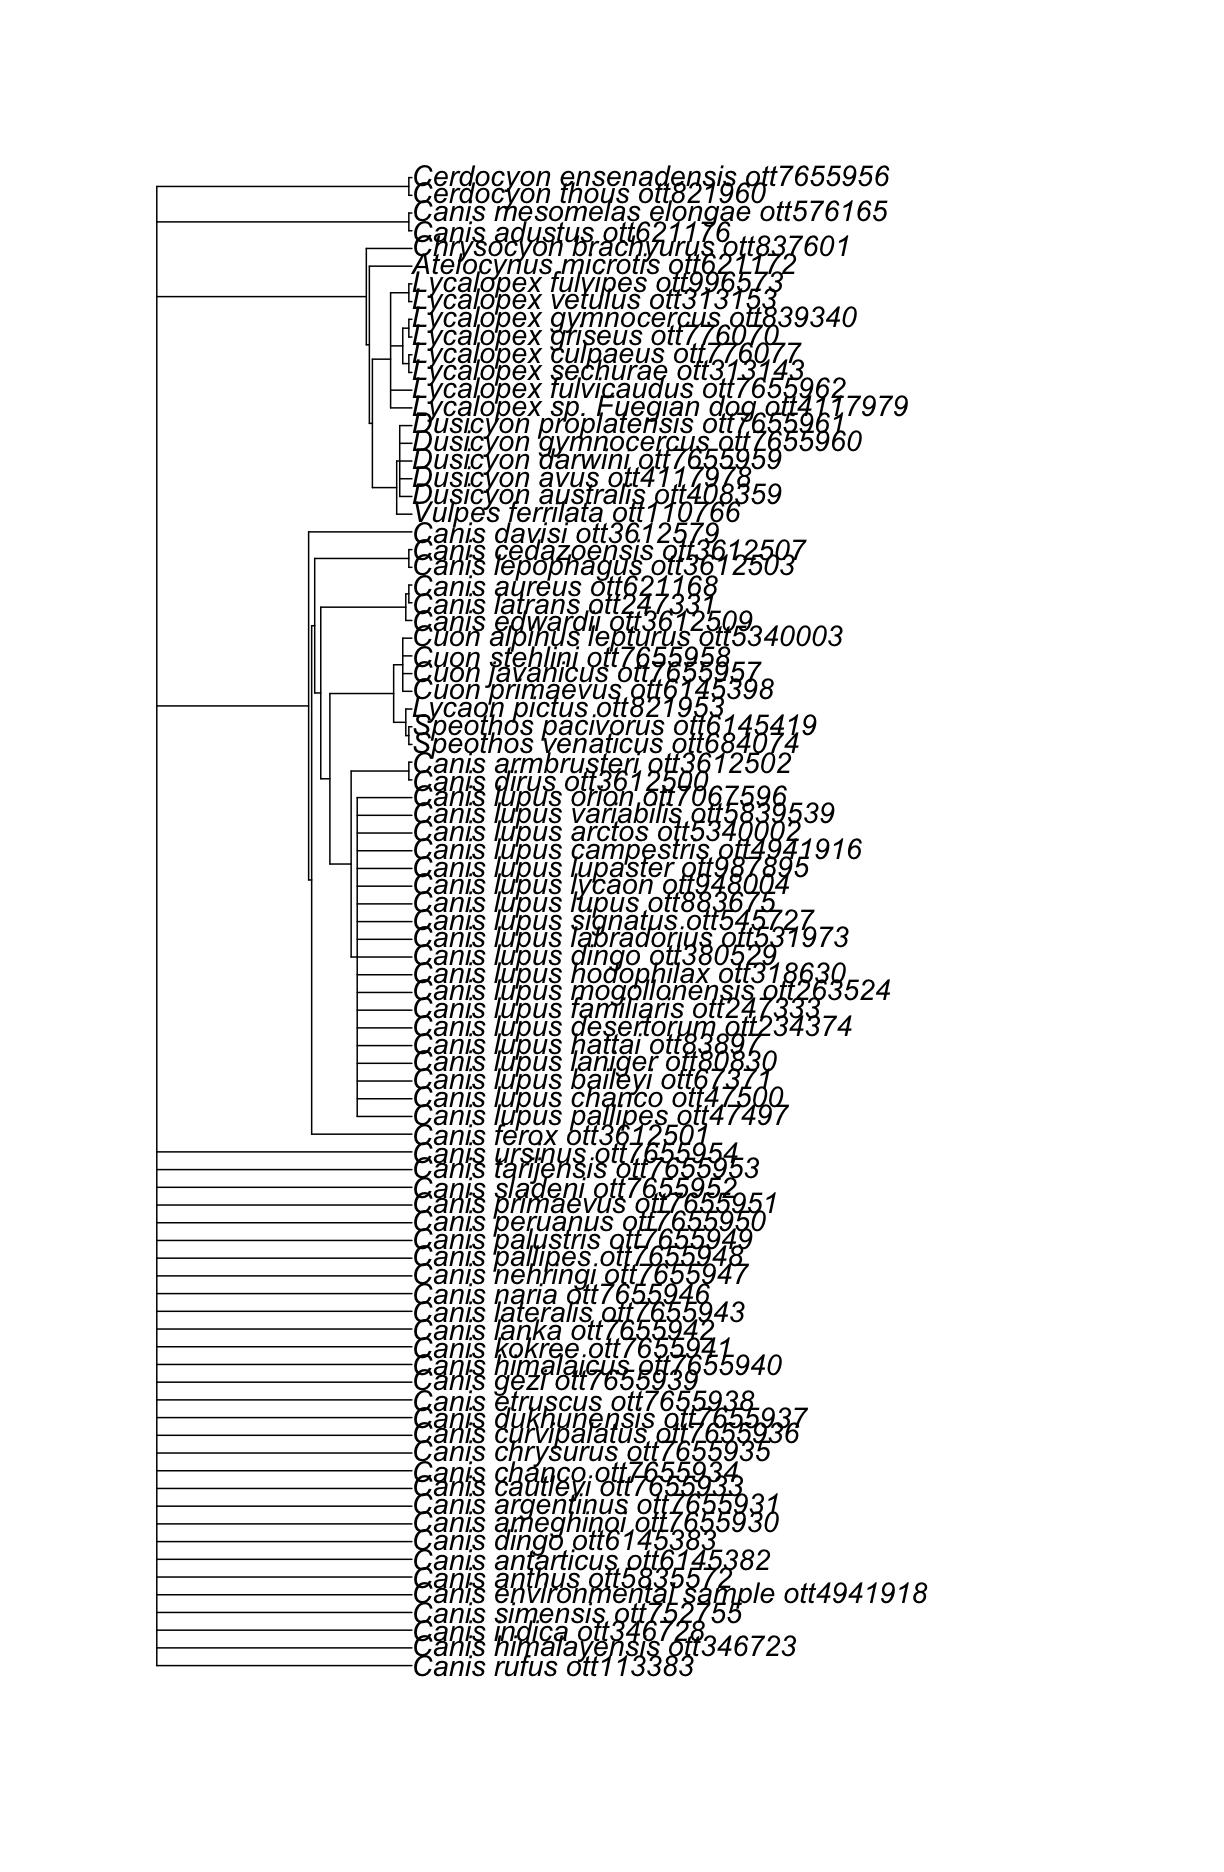
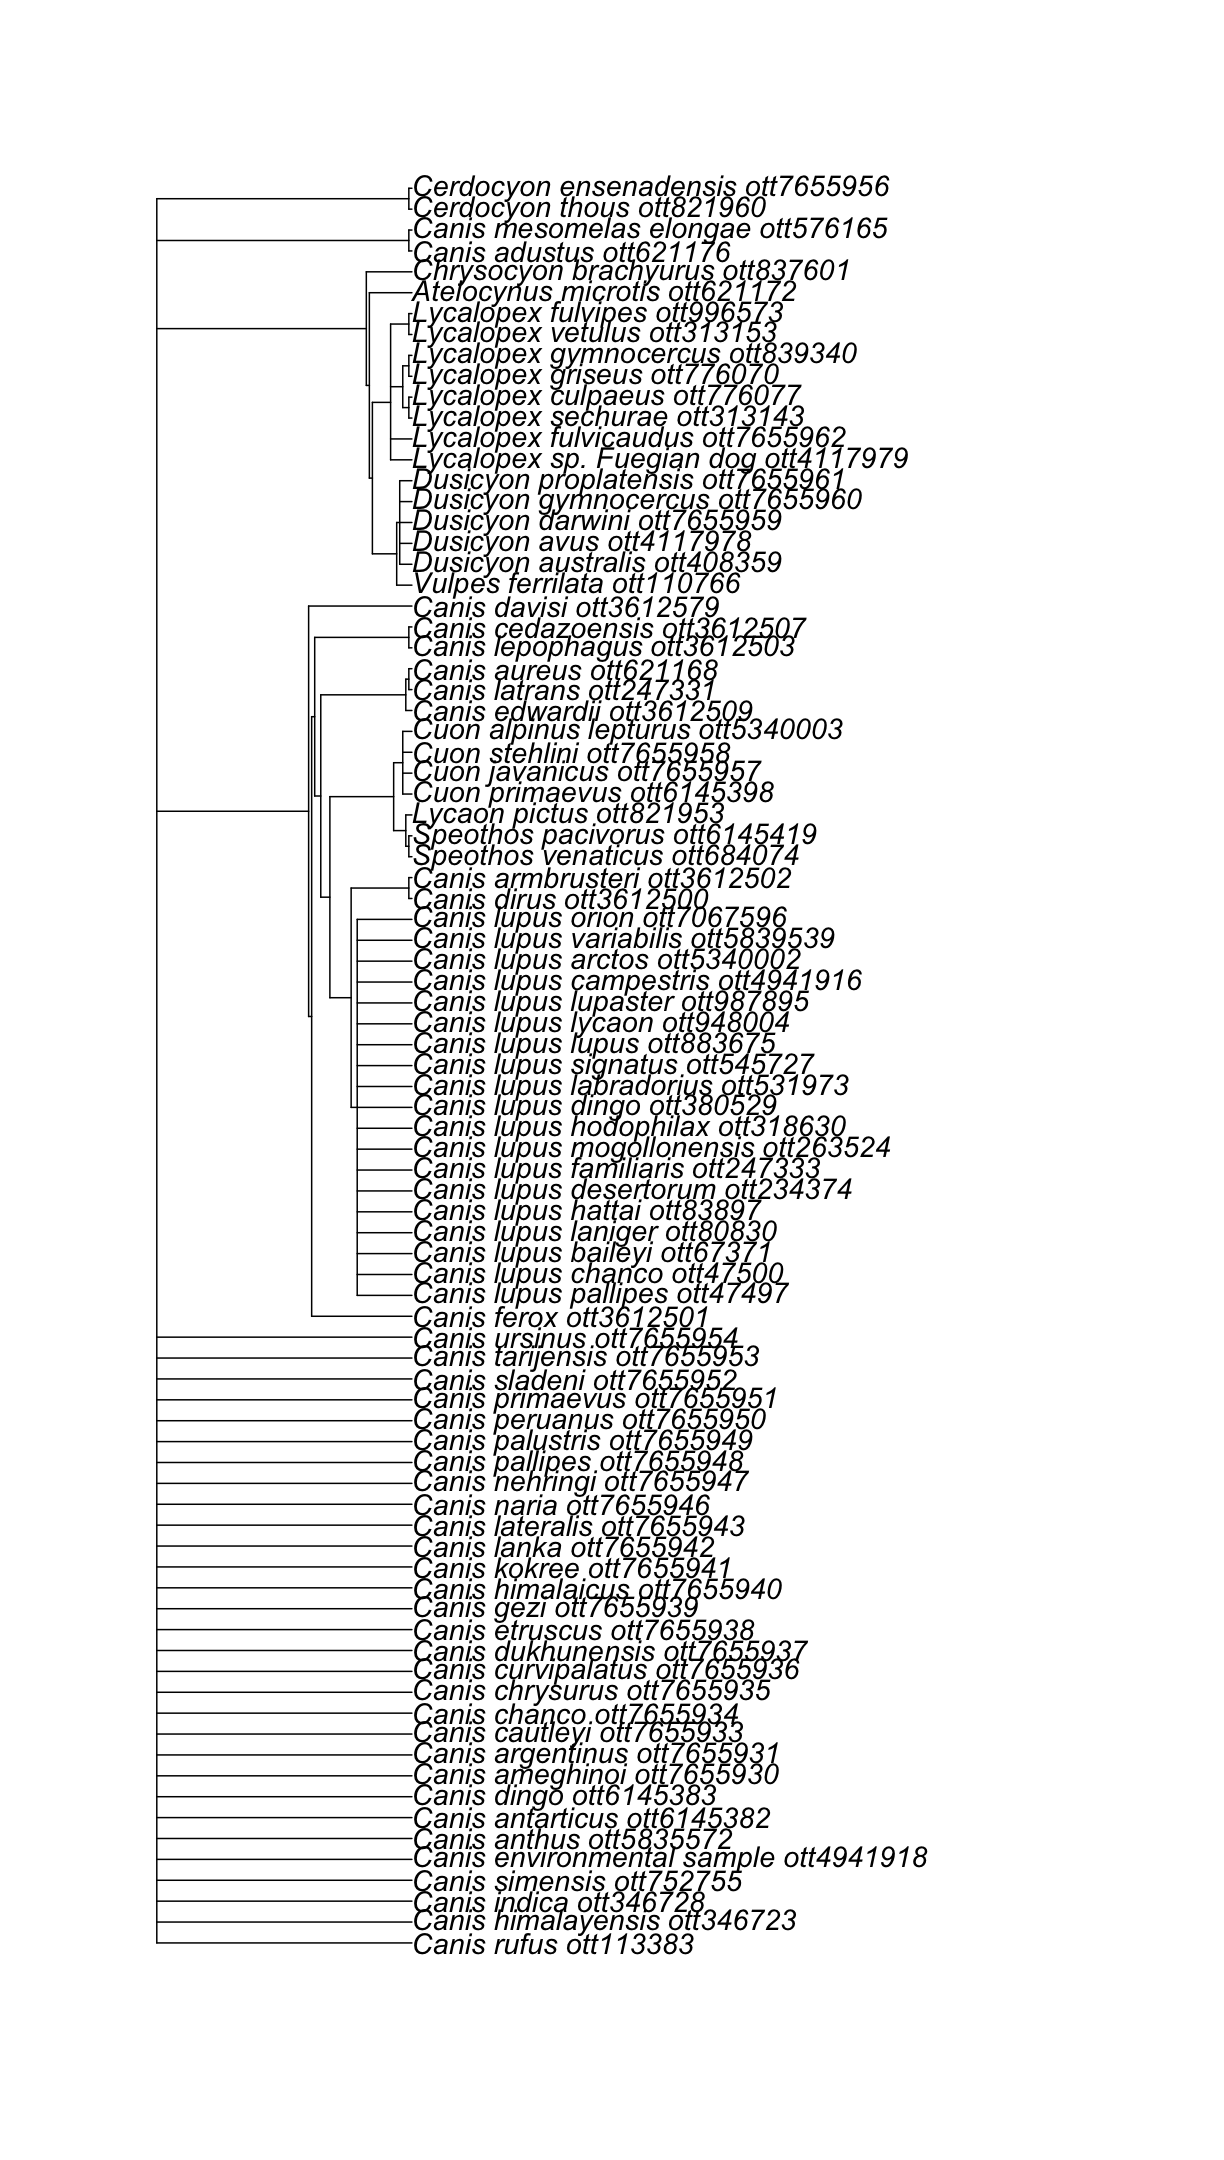
updating episodes 2 and 3

Changed region(s): [[0.1242, 0.062, 0.7761, 0.9295]]

diff --git a/_episodes/03-broken-taxa.md b/_episodes/03-broken-taxa.md
@@ -102,29 +102,29 @@ List of 8
   ..$ pg_2812@tree6545: chr "node1135827"
  $ source_id_map:List of 5
   ..$ ot_278@tree1    :List of 3
-  .. ..$ git_sha : chr "3008105691283414a18a6c8a728263b2aa8e7960"
+  .. ..$ git_sha : chr ""
   .. ..$ study_id: chr "ot_278"
   .. ..$ tree_id : chr "tree1"
   ..$ ot_328@tree1    :List of 3
-  .. ..$ git_sha : chr "3008105691283414a18a6c8a728263b2aa8e7960"
+  .. ..$ git_sha : chr ""
   .. ..$ study_id: chr "ot_328"
   .. ..$ tree_id : chr "tree1"
   ..$ pg_1428@tree2855:List of 3
-  .. ..$ git_sha : chr "3008105691283414a18a6c8a728263b2aa8e7960"
+  .. ..$ git_sha : chr ""
   .. ..$ study_id: chr "pg_1428"
   .. ..$ tree_id : chr "tree2855"
   ..$ pg_2647@tree6169:List of 3
-  .. ..$ git_sha : chr "3008105691283414a18a6c8a728263b2aa8e7960"
+  .. ..$ git_sha : chr ""
   .. ..$ study_id: chr "pg_2647"
   .. ..$ tree_id : chr "tree6169"
   ..$ pg_2812@tree6545:List of 3
-  .. ..$ git_sha : chr "3008105691283414a18a6c8a728263b2aa8e7960"
+  .. ..$ git_sha : chr ""
   .. ..$ study_id: chr "pg_2812"
   .. ..$ tree_id : chr "tree6545"
  $ supported_by :List of 2
   ..$ ot_278@tree1: chr "node233"
   ..$ ot_328@tree1: chr "node495"
- $ synth_id     : chr "opentree12.3"
+ $ synth_id     : chr "opentree13.4"
  $ terminal     :List of 2
   ..$ pg_1428@tree2855: chr "node610132"
   ..$ pg_2647@tree6169: chr "ott247333"
@@ -157,11 +157,12 @@ Right now we are only interested in the node ir. Where do you think it is?
 {: .testimonial} -->
 <br/>
 
-> ## Pro tip 3.1: Get the node id of the MRCA of a group of OTT ids
->
-> Sometimes you want the MRCA of a bunch of lineages. The function `tol_mrca()` gets the node if of the MRCA of a group of OTT ids.
->
-> Can you use it to get the mrca of _Canis_?
+> > ## Pro tip 3.1: Get the node id of the MRCA of a group of OTT ids
+> >
+> > Sometimes you want the MRCA of a bunch of lineages. The function `tol_mrca()` gets the node of the MRCA of a group of OTT ids.
+> >
+> > Can you use it to get the mrca of _Canis_?
+> {: .solution}
 {: .testimonial}
 
 
@@ -176,8 +177,24 @@ Now that we have a node id, we can use it to get a subtree with `tol_subtree()`,
 
 ~~~
 canis_node_subtree <- rotl::tol_subtree(node_id = canis_node_id)
+canis_node_subtree
 ~~~
 {: .language-r}
+
+
+
+~~~
+
+Phylogenetic tree with 85 tips and 28 internal nodes.
+
+Tip labels:
+  Canis_lupus_pallipes_ott47497, Canis_lupus_chanco_ott47500, Canis_lupus_baileyi_ott67371, Canis_lupus_laniger_ott80830, Canis_lupus_hattai_ott83897, Canis_lupus_desertorum_ott234374, ...
+Node labels:
+  , , , , , , ...
+
+Unrooted; no branch lengths.
+~~~
+{: .output}
 
 ~~~
 ape::plot.phylo(canis_node_subtree, cex = 1.2)
@@ -188,18 +205,19 @@ ape::plot.phylo(canis_node_subtree, cex = 1.2)
 
 Nice! We got a subtree of 85 tips, containing all descendants from the node that also contains _Canis_.
 
-This includes species assigned to genera other than _Canis_.
+If you explore the taxon names at the tip, you will notice that this includes species assigned to genera other than _Canis_.
+
+Now, what if I want a subtree of certain taxonomic ranks withing my group? Go to the next episode and find out how you can do this!
 
 
-> ## Note: Get an induced subtree of taxonomic children
->
-> It might seem non phylogenetic, but what if I _really, really_ need a tree containing species within the genus _Canis_ only?
->
-> We can get the OTT ids of the taxonomic children of our taxon of interest and use the function `tol_induced_subtree()`.
->
-> > ## So, here is my hack, enjoy!
+> > ## Pro Tip 3.2: Get an induced subtree of taxonomic children
 > >
-> > First, get the taxonomic children.
+> > What if I _really, really_ need a tree containing species within the genus _Canis_ only, excluding everything that does not belong to the genus taxonomically, even if it does phylogenetically?
+> >
+> > We can get the OTT ids of the taxonomic children of our taxon of interest and use the function `tol_induced_subtree()`.
+> >
+> >
+> > First, we will get the taxonomic children.
 > > 
 > > ~~~
 > > canis_taxonomy <- rotl::taxonomy_subtree(resolved_names["Canis",]$ott_id)
@@ -381,10 +399,6 @@ This includes species assigned to genera other than _Canis_.
 > >
 > > There! We have a synthetic subtree (derived from phylogenetic information) containing only the taxonomic children of _Canis_.
 > {: .solution}
-{: .discussion}
-
-<br/>
-
-What if I want a subtree of certain taxonomic ranks withing my group? Go to the next episode and find out how you can do this!
+{: .testimonial}
 
 <br/>

diff --git a/_episodes/02-get-induced.md b/_episodes/02-get-induced.md
@@ -14,15 +14,15 @@ objectives:
 - "Get a subtree"
 keypoints:
 - "OTT ids and node ids allow us to interact with the synthetic OTOL."
-- "Portions of the synthetic OTOL can be extracted from a single OTT id or from a bunch of them."
+- "Portions of the synthetic OTOL can be extracted from a single OTT id or from a bunch of OTT ids"
 - "It is not possible to get a subtree from an OTT id that is not in the synthetic tree."
 ---
 
 <br/>
 <br/>
 
-The **synthetic Open Tree of Life** (synthetic OTOL from now on) summarizes information from 1216
-trees from 1162 peer-reviewed and published studies, that have been uploaded to the OTOL database through a [curator system](https://tree.opentreeoflife.org/curator).
+The **synthetic Open Tree of Life** (synthetic OTOL from now on) summarizes information from 1239
+trees from 1184 peer-reviewed and published studies, that have been uploaded to the OTOL database through a [curator system](https://tree.opentreeoflife.org/curator).
 
 Functions from the `rotl` package that interact with the synthetic OTOL start with "tol_".
 
@@ -40,12 +40,12 @@ rotl::tol_about()
 
 OpenTree Synthetic Tree of Life.
 
-Tree version: opentree12.3
-Taxonomy version: 3.2draft9
-Constructed on: 2019-12-23 11:41:23
-Number of terminal taxa: 2391916
-Number of source trees: 1216
-Number of source studies: 1162
+Tree version: opentree13.4
+Taxonomy version: 3.3draft1
+Constructed on: 2021-06-18 11:13:49
+Number of terminal taxa: 2392042
+Number of source trees: 1239
+Number of source studies: 1184
 Source list present: false
 Root taxon: cellular organisms
 Root ott_id: 93302
@@ -54,7 +54,7 @@ Root node_id: ott93302
 {: .output}
 This is nice!
 
-As you can note, the current synthetic OTOL was created not too long ago, on 2019-12-23 11:41:23.
+As you can note, the current synthetic OTOL was created not too long ago, on 2021-06-18 11:13:49.
 
 This is also telling us that there are currently more than 2 million tips on the synthetic OTOL.
 
@@ -134,11 +134,9 @@ my_tree
 Phylogenetic tree with 5 tips and 4 internal nodes.
 
 Tip labels:
-[1] "Delphinidae_ott698406"  "mrcaott47497ott110766"  "Felis_ott563165"       
-[4] "Spheniscidae_ott494367" "Amphibia_ott544595"    
+  Delphinidae_ott698406, mrcaott47497ott110766, Felis_ott563165, Spheniscidae_ott494367, Amphibia_ott544595
 Node labels:
-[1] "Tetrapoda ott229562" "Amniota ott229560"   "mrcaott1548ott4697" 
-[4] "mrcaott4697ott6940" 
+  Tetrapoda ott229562, Amniota ott229560, mrcaott1548ott4697, mrcaott4697ott6940
 
 Rooted; no branch lengths.
 ~~~
@@ -220,12 +218,12 @@ amphibia_subtree
 
 ~~~
 
-Phylogenetic tree with 10012 tips and 3100 internal nodes.
+Phylogenetic tree with 10020 tips and 4669 internal nodes.
 
 Tip labels:
-	Odorrana_geminata_ott114, Odorrana_supranarina_ott14375, Odorrana_narina_ott14379, Odorrana_amamiensis_ott14384, Odorrana_utsunomiyaorum_ott14377, Odorrana_swinhoana_ott14392, ...
+  Odorrana_geminata_ott114, Odorrana_chapaensis_ott214633, Odorrana_grahami_ott43280, Odorrana_margaretae_ott440550, Odorrana_kuangwuensis_ott3618367, Odorrana_junlianensis_ott656728, ...
 Node labels:
-	Amphibia ott544595, Batrachia ott471197, Anura ott991547, , , , ...
+  Amphibia ott544595, Batrachia ott471197, Anura ott991547, , , , ...
 
 Unrooted; no branch lengths.
 ~~~
